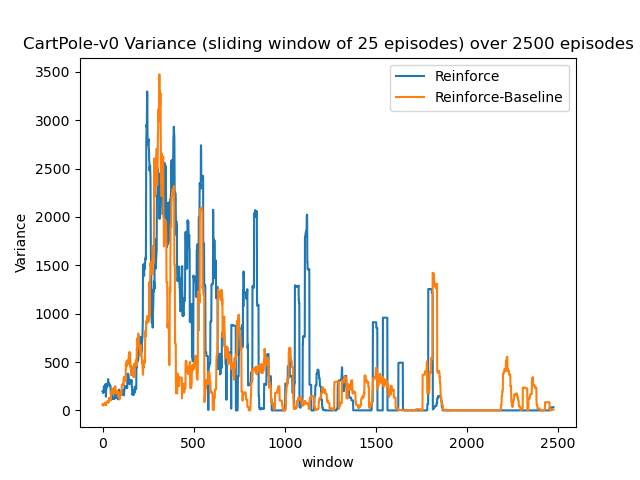
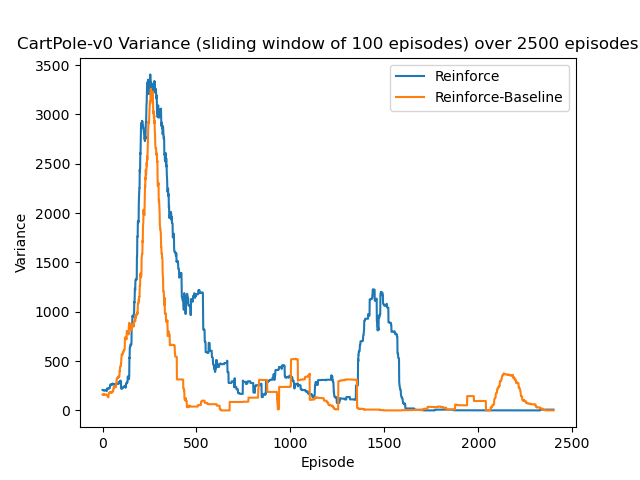
Fix x-label, change sliding window to 100

diff --git a/Reinforce/main.py b/Reinforce/main.py
@@ -27,8 +27,8 @@ parser.add_argument('--target', default=195, type=int,
                     help='Solved at target (default: 195)')
 parser.add_argument('--baseline', default=True, type=bool,
                     help='use reinforce with baseline (default: false)')
-parser.add_argument('--window-size', default=25, type=int,
-                    help='Window size to calculate variance (default: 10)')
+parser.add_argument('--window-size', default=100, type=int,
+                    help='Window size to calculate variance (default: 100)')
 
 
 def plot_rewards(reinforce, episode_rewards, mean_rewards, env_name, num_episodes):
@@ -53,7 +53,7 @@ def plot_variance(episode_rewards_reinforce, episode_rewards_baseline, env_name,
     plt.plot(windows,reinforce_var,label="Reinforce")
     plt.plot(windows, reinforce_baseline_var, label="Reinforce-Baseline")
     plt.ylabel("Variance")
-    plt.xlabel("window")
+    plt.xlabel("Episode")
     plt.legend()
     fig.savefig('variance.png')
 
